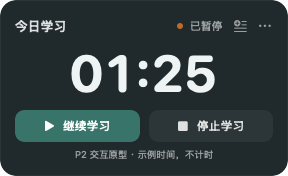
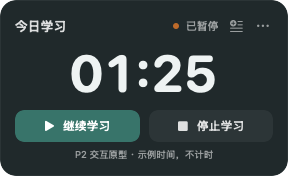
snapshot(P2-v3): import delivered stage retrospectively

Changed region(s): [[0.5938, 0.1136, 0.9375, 0.1989]]

diff --git a/Sources/StudyTimerPrototype/TimerViews.swift b/Sources/StudyTimerPrototype/TimerViews.swift
@@ -29,10 +29,18 @@ struct TimerView: View {
                 Spacer(minLength: 2)
                 Circle().fill(model.phase == .running ? PrototypeTheme.accent : model.phase == .paused ? .orange.opacity(0.7) : .gray.opacity(0.65)).frame(width: 6, height: 6)
                 Text(model.phase.title).font(.system(size: 11)).foregroundColor(.secondary)
-                Button(action: history) { Image(systemName: "text.badge.plus").frame(width: 20, height: 20) }
+                Button(action: history) {
+                    Image(systemName: "text.badge.plus")
+                        .frame(width: 20, height: 20)
+                        .contentShape(Rectangle())
+                }
                     .buttonStyle(.plain).foregroundColor(.secondary).help("查看学习记录（演示数据）").accessibilityLabel("查看学习记录")
                     .timerControl()
-                Button(action: showMenu) { Image(systemName: "ellipsis").frame(width: 16, height: 20) }
+                Button(action: showMenu) {
+                    Image(systemName: "ellipsis")
+                        .frame(width: 20, height: 20)
+                        .contentShape(Rectangle())
+                }
                     .buttonStyle(.plain).foregroundColor(.secondary).help("原型演示与设置").accessibilityLabel("原型演示菜单")
                     .timerControl()
             }

diff --git a/README.md b/README.md
@@ -1,9 +1,9 @@
 # 桌面悬浮计时应用
 
-面向日常学习的本地 Mac 计时器。当前已交付 **P2 原生交互原型 v2，等待用户测试验收**。用户于 2026-09-18 明确要求“按照文档，完成P2开发”；P3 尚未获准。
+面向日常学习的本地 Mac 计时器。当前已交付 **P2 原生交互原型 v3，等待用户测试验收**。用户于 2026-09-18 明确要求“按照文档，完成P2开发”；P3 尚未获准。
 
 ## 运行与验收
-双击 `outputs/P2-v2/StudyTimer-P2.app`。仅支持本次构建的 Apple Silicon Mac。
+双击 `outputs/P2-v3/StudyTimer-P2.app`。仅支持本次构建的 Apple Silicon Mac。
 
 这是窗口交互原型：时间、日期和历史均为固定演示数据，不会真实计时；文字只保留在本次运行。仅窗口位置保存到独立 P2 偏好设置，不创建学习数据库。
 
@@ -17,7 +17,7 @@
 ```sh
 bash scripts/build.sh release
 bash scripts/test.sh
-./outputs/P2-v2/StudyTimer-P2.app/Contents/MacOS/StudyTimerPrototype --self-check "$PWD/work/p2-evidence/local"
+./outputs/P2-v3/StudyTimer-P2.app/Contents/MacOS/StudyTimerPrototype --self-check "$PWD/work/p2-evidence/local"
 ```
 
 构建目标为 arm64 / macOS 13，无第三方依赖。`Package.swift` 保留工程结构；当前 CLT 环境的 `swift build` 无法查询 SDK PlatformPath，因此本机交付采用 `xcrun swiftc`。测试是独立 Swift 检查程序，不依赖 XCTest。

diff --git a/docs/p2-testing.md b/docs/p2-testing.md
@@ -1,9 +1,9 @@
-# P2 v2：运行与用户验收
+# P2 v3：运行与用户验收
 
 交付日期：2026-09-18。请先完成本页测试，再反馈是否通过；收到明确放行前不进入 P3。
 
 ## 1. 打开
-项目内直接双击 `outputs/P2-v2/StudyTimer-P2.app`；如果使用交付 ZIP，先解压再双击其中的应用。
+项目内直接双击 `outputs/P2-v3/StudyTimer-P2.app`；如果使用交付 ZIP，先解压再双击其中的应用。
 
 这是 Apple Silicon 原型，最低部署目标 macOS 13，本机已在 macOS 26.6.2 启动验证。应用不出现在 Dock；悬浮窗右上角“…”与菜单栏计时器图标都能打开演示菜单。窗口丢失时点菜单栏“显示计时窗”，也可再次打开应用。
 
@@ -39,3 +39,6 @@
 
 ## 4. 反馈
 请反馈编号、操作步骤、实际表现和预期差异。验收通过后明确回复“P2 验收通过，允许进入 P3”；有问题则先修复 P2 并重新交付。
+
+## v3 补充验收
+点击右上角三个点的上方、下方和左右小范围空白，应打开菜单，不应开始拖动。两个顶部图标点击区域均为 20×20 pt。

diff --git a/docs/snapshot-provenance.md b/docs/snapshot-provenance.md
@@ -1,8 +1,8 @@
-# P2-v2 阶段快照
+# P2-v3 阶段快照
 
 从已有交付快照事后补建，提交时间为实际导入时间，不代表原开发提交。
 
-来源：StudyTimer-P2-source-v2.zip
[1 lines of base64/hex data omitted]
+来源：StudyTimer-P2-source-v3.zip
[1 lines of base64/hex data omitted]
 
 公开导入仅保留源码、文档、设计和精选测试证据；去除个人路径及真实数据细节。历史报告是当时记录，未在本次重新运行。
